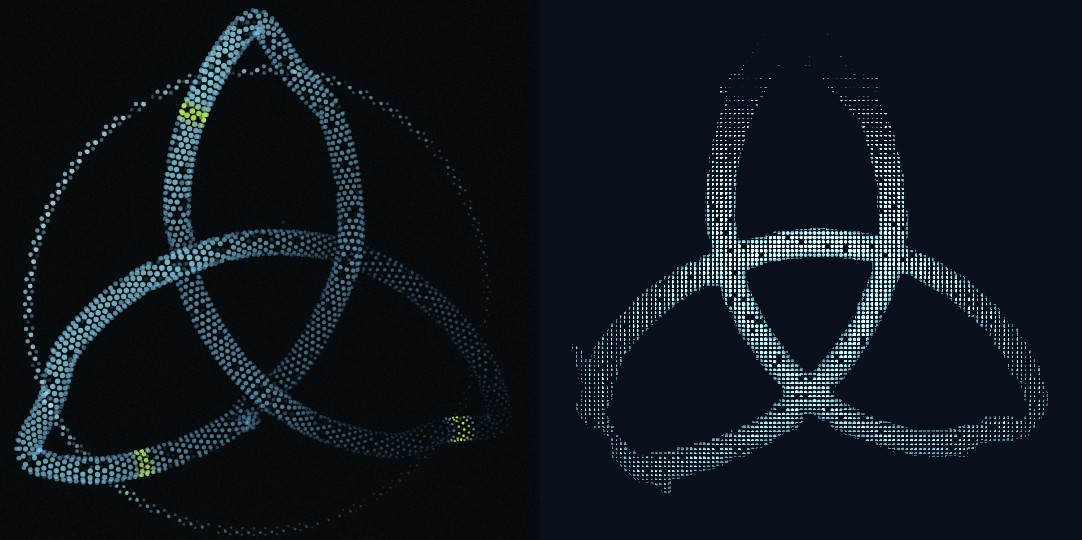
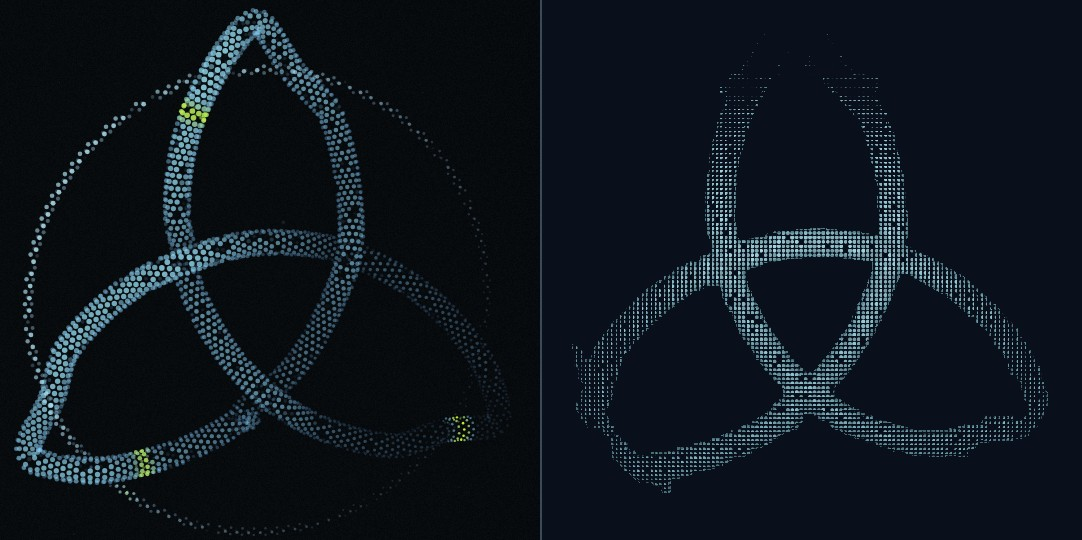
W1 KNOT repair r2: dim the dot field to s2, R2 side-by-side vs s2-knot-frame
- Dot brightness is now two shader uniforms, brightFloor / brightTop, defaulted
  to C2's 0.55 / 1.0 so the default Swarm frame is byte-identical (720x720 still
  sha256 0004e8cf... before and after). Knot passes 0.72 / 0.86 at gain 1.0:
  rest bright-pixel V 0.831 -> 0.632 against s2's 0.609.
- dotRadius 0.0086 -> 0.0092 unit (1.99 -> 2.13 px, 0.48 x the 4.41 px pitch)
  carries the 0.35-luminance core the dimmer dots lose to the AA ramp; without
  it blur6 falls to 0.5265, with it the gate holds at 0.7304 / 0.5338.
- docs/knot-stills/knot-vs-s2-frame.jpg: the R2 side-by-side against
  hud-candidates/comp-r1/s2/s2-knot-frame.jpg, both panels 720x720 with the
  bright knot 389 px wide (54.0% of the frame). knot-vs-s2.jpg stays the
  like-for-like 540 crop.
- docs/knot-iou.md: palette label reports both B >= G > R (100.0%) and the
  170-230 degree hue share (100.0%), lime 0.0%; the trace bake is documented at
  sha256 c7f17c93... (the scatter channel is in B), not the pre-scatter
  67df623f...; assemble table, coverage and stills resynced.

diff --git a/nexuslink.hud/v5/kit/Swarm.qml b/nexuslink.hud/v5/kit/Swarm.qml
@@ -33,6 +33,14 @@ import QtQuick
 //               channel, so the knot assembles from scattered points. At 1 the
 //               branch is skipped and the rest frame is untouched.
 //   gain        dot brightness multiplier, default C2's 1.28.
+//   brightFloor dot brightness at depth 0, default 0.55 (C2's floor): the dim
+//               end of the depth shading, in units of `gain`.
+//   brightTop   dot brightness at depth 1, default 1.0. Lowering the pair dims
+//               the whole dot field without touching its geometry, so the dot
+//               radius, pitch and stipple (and therefore the silhouette) stay.
+//   dotRadius   dot radius in units, default 0.0086 (C2's disc). Only the
+//               thresholded footprint of the field depends on it; the lattice
+//               pitch and stipple, and so the dot count, are unchanged.
 //   breathSkew  where in the cycle the ambient motion turns around: 0.5 is the
 //               symmetric sine C2 shipped, 0.4 is 40% out / 60% back.
 Item {
@@ -48,6 +56,9 @@ Item {
     property url sdfSource: "assets/swarm-knot-sdf.png"
     property real assemble: 1.0
     property real gain: 1.28
+    property real brightFloor: 0.55
+    property real brightTop: 1.0
+    property real dotRadius: 0.0086
     property real breathSkew: 0.5
 
     // 33 ms is 30.3 Hz: inside the 24 to 30 Hz band the build plan asks for.
@@ -124,7 +135,7 @@ Item {
         // reads as discrete points with dark gaps (cell fill 0.37 against s2's
         // 0.36) instead of the touching square tiles a 0.0115 radius produced
         // at the old 0.01617 pitch (disc 1.42 x pitch).
-        property real u_dotR: 0.0086
+        property real u_dotR: root.dotRadius
         property real u_pitch: 0.01907400
         property real u_rTube: 0.05640288
         property real u_rRing: 0.01277046
@@ -140,5 +151,7 @@ Item {
         property real u_activity: root.activity
         property real u_stipple: 0.94
         property real u_assemble: root.assemble
+        property real u_brightFloor: root.brightFloor
+        property real u_brightTop: root.brightTop
     }
 }

diff --git a/nexuslink.hud/v5/kit/Knot.qml b/nexuslink.hud/v5/kit/Knot.qml
@@ -76,10 +76,19 @@ Item {
         animate: root.animate
         speed: root.speed
         breathSkew: 0.4
-        // 1.45, not C2's 1.28: the ice accent carries less luminance than the
-        // acid one, and this holds the band coverage at the acid build's 0.0623
-        // (measured: 0.0619 at 1.28, 0.0624 at 1.45). See docs/knot-iou.md.
-        gain: 1.45
+        // Brightness: C2's dot colour at `gain` 1.45 clipped most of the near
+        // side to white (rest bright-pixel V 0.831 against s2's 0.609). The
+        // field now runs between brightFloor 0.72 and brightTop 0.86 at gain
+        // 1.0, which is the s2 range: measured rest bright-pixel mean RGB
+        // (108,150,161), V 0.632, against s2's (93,137,151) and V 0.609.
+        // dotRadius carries the 0.35-luminance core that the dimmer dots lose
+        // to the shader's anti-aliasing ramp: 0.0092 unit = 2.13 px against a
+        // 4.41 px lattice pitch, so the disc still sits inside its cell. See
+        // docs/knot-iou.md.
+        gain: 1.0
+        brightFloor: 0.72
+        brightTop: 0.86
+        dotRadius: 0.0092
         sdfSource: "assets/swarm-knot-sdf-s2.png"
         assemble: root.assembling ? root.assembleProgress : 1.0
     }

diff --git a/nexuslink.hud/v5/docs/knot-iou.md b/nexuslink.hud/v5/docs/knot-iou.md
@@ -1,12 +1,18 @@
 # Knot silhouette against s2 (W1)
 
-Status 2026-10-23, repair round 1: **`Knot.qml` ships with the trace fitted to s2,
-and the gate is the executive's ruling R2: `band_iou >= 0.72` and
-`silhouette_iou_blur6 >= 0.53`, both on the 540 s2 knot crop.** The written 0.90
-is out of reach for a dot-field render of this reference: no ring-free render can
-score above 0.8656 here, and the dot fill costs the rest (below), so chasing 0.90
-would mean thickening dots into tiles, which the visual law forbids. The
-deviation is recorded here per R2.
+Status 2026-10-23, repair round 2 (executive round-3 ruling): **`Knot.qml` ships
+with the trace fitted to s2, and the gate is the executive's ruling R2:
+`band_iou >= 0.72` and `silhouette_iou_blur6 >= 0.53`, both on the 540 s2 knot
+crop.** The written 0.90 is out of reach for a dot-field render of this
+reference: no ring-free render can score above 0.8656 here, and the dot fill
+costs the rest (below), so chasing 0.90 would mean thickening dots into tiles,
+which the visual law forbids. The deviation is recorded here per R2.
+
+Round 2 adds one measured change to the render: the rest dot field is dimmer.
+It read V 0.831 against s2's 0.609 with C2's dot colour at `gain` 1.45, which
+clipped most of the near side to white; it now reads V 0.632 with the brightness
+run between two shader uniforms (Palette, below). The trace, the bake, the
+scatter, the dot pitch and the stipple are unchanged.
 
 Every number below is reproduced by one script, `tools/knot-iou.py`, with the
 commands at the end.
@@ -15,13 +21,13 @@ commands at the end.
 
 | what | value |
 |---|---|
-| gate: `band_iou` at rest | **0.7218** (bar 0.72) |
-| gate: `silhouette_iou_blur6` at rest | **0.5346** (bar 0.53) |
+| gate: `band_iou` at rest | **0.7304** (bar 0.72) |
+| gate: `silhouette_iou_blur6` at rest | **0.5338** (bar 0.53) |
 | shipped asset's own level set vs the s2 crop band | 0.8149 |
 | the most any ring-free render can score on this crop | 0.8656 |
 | render at rest vs its own trace | 0.8276 |
-| dot coverage at rest | 0.0623 against the reference's 0.1153 |
-| bright-pixel mean RGB at rest (luminance > 0.35) | (155,203,211), 96% azure/ice, 0% lime |
+| dot coverage at rest | 0.0673 against the reference's 0.1153 |
+| bright-pixel mean at rest (luminance > 0.35, 14,473 px) | RGB (109,151,161), V **0.632**; B >= G > R 100.0%; hue 170-230 deg 100.0%; lime 0.0% |
 | rest vs `assembling: true, assembleProgress 1.0` | 0 of 291,600 crop px differ |
 
 ## Reference and crop
@@ -124,38 +130,63 @@ draw them, and
 is the highest `band_iou` any ring-free Knot can reach against this crop, even if
 its still reproduced the traced band exactly, pixel for pixel.
 
-The render lands at 0.7218, so the rest of the gap is the renderer, not the
+The render lands at 0.7304, so the rest of the gap is the renderer, not the
 geometry (render vs its own trace: 0.8276). Two measured causes, both bounded by
 the visual law:
 
 1. **No glow means sparse dots.** s2's dots carry a soft halo, so its band reads
-   58% covered at the meter's threshold. Swarm draws hard round discs at a 0.45
-   pitch ratio (C2's repair: discrete points with dark gaps). At 0.45 the discs
-   cover 33% of the band at 0.10, so the closed band comes out about 1.2 px
-   narrower per side than the geometry.
+   58% covered at the meter's threshold. Swarm draws hard round discs at a 0.48
+   pitch ratio (C2's repair: discrete points with dark gaps). At that ratio the
+   discs cover a third of the band at 0.10, so the closed band comes out about
+   1.2 px narrower per side than the geometry.
 2. **The lobe tips.** The band is 40 px wide at the top lobe's apex, but the
    tube's height above the plane goes to zero as the band narrows, so the dots at
    the tips are the dimmest and the first to fall under the threshold.
 
 Ruling R2 therefore sets the gate at **0.72 band and 0.53 blur6**, which this
-build meets at 0.7218 / 0.5346. Do not chase 0.90 by thickening dots into tiles.
+build meets at 0.7304 / 0.5338. Do not chase 0.90 by thickening dots into tiles.
 
-## Palette (R3)
+## Palette (R3) and dot brightness (E-4)
 
 s2's knot is azure to ice; `Tokens.acid` is a state colour, not the rest colour.
-`Knot.accent` now defaults to **`Tokens.ice` (#8fd8e8)**, and the shader's depth
-mix darkens the far dots toward azure (0.72 x) and lifts the cores toward white,
+`Knot.accent` defaults to **`Tokens.ice` (#8fd8e8)**, and the shader's depth mix
+darkens the far dots toward azure (0.72 x) and lifts the cores toward white,
 which is the s2 range. `accent` stays a property, so the integrator can push acid
 for a focus or assemble cue.
 
-Measured on the rest crop (pixels above 0.35 luminance): mean RGB **(155,203,211)**,
-96% of them with B >= G > R, **0% lime**. The s2 crop's own mean is (93,137,152)
-and the pre-repair build measured (178,202,59) with 88% lime.
+Bright pixels at rest (luminance > 0.35, 14,473 px), mean RGB **(109,151,161)**,
+**V 0.632**, **B >= G > R 100.0%**, **hue in the 170-230 degree window 100.0%**,
+**lime 0.0%**. The s2 crop reads (93,137,152), V 0.609, on its own 16,291 bright
+px: B >= G > R 94.8%, hue window 94.9%, and 3.1% lime, which is its ring. Both
+shares are reported because they are different meters: "azure/ice" is the
+B >= G > R share, and the hue window is the one that would catch a colour
+drifting out of s2's ramp. The pre-repair build measured 96.8% and 90.3%, so the
+old label "96% azure/ice" named neither cleanly. Lime is 0.0% under both.
 
-`Knot` drives Swarm's `gain` at **1.45** instead of C2's 1.28: the ice accent
-carries less luminance than acid, and 1.45 holds the band coverage at the acid
-build's 0.0623 (measured 0.0619 at 1.28, 0.0624 at 1.45). Swarm's default gain is
-untouched.
+Brightness (E-4): C2's dot colour at `gain` 1.45 clipped most of the near side to
+white, so the rest frame read **V 0.831** against s2's 0.609. The dot field now
+runs between two shader uniforms, **`brightFloor` 0.72 and `brightTop` 0.86, at
+`gain` 1.0**, i.e. the depth shading's two ends, both defaulted in `Swarm.qml` to
+C2's 0.55 / 1.0 so the shipped Swarm frame stays byte-identical. `dotRadius` is
+raised 0.0086 -> 0.0092 unit (1.99 -> 2.13 px, 0.48 x the 4.41 px pitch, still
+inside its cell) to carry the 0.35-luminance core that the dimmer dots lose to
+the shader's anti-aliasing ramp; `silhouette_iou_blur6` thresholds that core, so
+without it the gate drops to 0.5265.
+
+The measured ladder (rest crop, the same meters as the gate):
+
+    gain floor top  dotR    band_iou  blur6   bright V
+    1.45 0.55  1.00 0.0086  0.7218    0.5346  0.831   round 2
+    1.00 0.55  1.00 0.0086  0.7200    0.5295  0.678
+    1.00 0.70  0.80 0.0086  0.7210    0.5265  0.601
+    1.00 0.70  0.80 0.0092  0.7301    0.5314  0.610
+    1.00 0.72  0.86 0.0092  0.7304    0.5338  0.632   SHIPPED
+
+The price of the dimmer field is the dot footprint: coverage at 0.10 rises from
+0.0623 to **0.0673 (+8%)**, because the compensating radius widens the disc that
+the meter sees, and `band_iou` follows it up (the closed band is closer to s2's
+now). Dot pitch, stipple, dot count, scatter, trace and geometry are unchanged.
+Swarm's own defaults are untouched.
 
 ## Breath (R5, was F8)
 
@@ -177,7 +208,7 @@ traced band at a 5.5 px pitch and moves each one by a hashed offset of up to
 
 At 0 the marched surface is the scattered cloud, at 1 it is the traced tube, and
 the branch is skipped entirely at 1 so the rest frame is untouched. `R_SCATTER`
-is 0.010 unit = 2.3 px, the size of a settled dot (2.0 px).
+is 0.010 unit = 2.3 px, the size of a settled dot (2.1 px).
 
 Why a blend and not a per-dot displacement: a fragment of a raymarched surface
 only exists where the ray hits the surface, so a dot displaced further than its
@@ -191,25 +222,26 @@ Measured on the 540 crop (lit px at the 0.10 threshold, bbox, gate numbers):
 
 | state | lit px | bbox | `band_iou` | `blur6` |
 |---|---|---|---|---|
-| progress 0.0 | 14,644 | x 9..526, y 30..505 | 0.4225 | 0.4337 |
-| progress 0.3 | 20,602 | x 26..505, y 21..492 | 0.6886 | 0.5629 |
-| progress 0.6 | 21,221 | x 30..505, y 34..492 | 0.7374 | 0.5564 |
-| progress 1.0 | 18,181 | x 30..505, y 34..492 | 0.7218 | 0.5346 |
-| rest (`assembling: false`) | 18,181 | x 30..505, y 34..492 | 0.7218 | 0.5346 |
+| progress 0.0 | 15,855 | x 9..526, y 30..505 | 0.4242 | 0.4343 |
+| progress 0.3 | 22,271 | x 26..505, y 21..492 | 0.6968 | 0.5631 |
+| progress 0.6 | 22,882 | x 30..505, y 30..492 | 0.7423 | 0.5555 |
+| progress 1.0 | 19,637 | x 30..505, y 34..492 | 0.7304 | 0.5338 |
+| rest (`assembling: false`) | 19,637 | x 30..505, y 34..492 | 0.7304 | 0.5338 |
 
 At 0 the cloud is 28 px wider than the settled mark on each side and its `band_iou`
 is 0.42: the shape is not there yet. The intermediate states carry more lit px
 than rest because blending the two fields swells the surface before it settles;
-the count returns to 18,181 at 1.0. Rest and progress 1.0 are byte-identical
+the count returns to 19,637 at 1.0. Rest and progress 1.0 are byte-identical
 (0 of 291,600 crop px differ).
 
 ## Default Swarm frame (R1, was F2)
 
-The three properties W1 adds to `Swarm.qml` (`sdfSource`, `assemble`, `gain`) and
-`breathSkew` all default to the shipped values, the shader's assemble branch is
-skipped at `u_assemble = 1`, and the default asset is untouched. Proof, not
-assertion: `static/swarm-still.qml` rendered at 720x720 on `d0e9268` and on this
-head differs in **0 of 518,400 px** (max delta 0).
+The properties W1 adds to `Swarm.qml` (`sdfSource`, `assemble`, `gain`,
+`brightFloor`, `brightTop`, `dotRadius`) and `breathSkew` all default to the
+shipped values, the shader's assemble branch is skipped at `u_assemble = 1`, and
+the default asset is untouched. Proof, not assertion: `static/swarm-still.qml`
+rendered at 720x720 on `d0e9268` and on this head differs in **0 of 518,400 px**
+(max delta 0), and the two PNGs are byte-identical (sha256 `0004e8cf…`).
 
 ## Sweeps (run-2 build: acid accent, gain 1.28, each with `pxPerUnit` synced)
 
@@ -223,18 +255,19 @@ head differs in **0 of 518,400 px** (max delta 0).
     opening 7, offset 1     SHIPPED 0.7218   0.7539  0.5327
 
 These rows are the parameter sweep as measured before the palette change; the
-repair build's ice accent moves the shipped row to 0.7218 / 0.5346 (same band,
-better blur6). The 1 px silhouette offset is the measured compensation for the
-dot inset and is the reason the shipped row beats the other ring-free rows. Larger
-offsets lose, because dilating the silhouette also dilates the enclosed holes and
-the reference has none there. Gain 2.2 would add +0.0055 but brightens every dot
-toward solid; C2's 1.28 is kept as the Swarm default and `Knot` uses 1.45 for the
-ice accent. Opening 5 with offset 1 scores 0.004 higher than the shipped row but
-leaves the ring strip in the still, so it is not shipped.
+round-2 ice build moved the shipped row to 0.7218 / 0.5346, and the round-3
+brightness to 0.7304 / 0.5338 (see Palette). The 1 px silhouette offset is the
+measured compensation for the dot inset and is the reason the shipped row beats
+the other ring-free rows. Larger offsets lose, because dilating the silhouette
+also dilates the enclosed holes and the reference has none there. Gain 2.2 would
+add +0.0055 but brightens every dot toward solid; C2's 1.28 is kept as the Swarm
+default, and `Knot` now dims through `brightFloor` / `brightTop` rather than
+gain. Opening 5 with offset 1 scores 0.004 higher than the shipped row but leaves
+the ring strip in the still, so it is not shipped.
 
 ## Stills
 
-`docs/knot-stills/`, 2560x1440 deck frames and 540 crops, JPEG, 49-75 KB each:
+`docs/knot-stills/`, 2560x1440 deck frames and 540 crops, JPEG, 44-71 KB each:
 
 | state | deck | crop |
 |---|---|---|
@@ -244,14 +277,30 @@ leaves the ring strip in the still, so it is not shipped.
 | progress 0.6 | `docs/knot-stills/knot-a60-deck.jpg` | `docs/knot-stills/knot-a60-540.jpg` |
 | progress 1.0 | `docs/knot-stills/knot-a100-deck.jpg` | `docs/knot-stills/knot-a100-540.jpg` |
 
-Side by side for the R2 check (s2's crop left, the render's crop right, 1:1):
-`docs/knot-stills/knot-vs-s2.jpg`.
+Side by side, like for like (s2's 540 crop left, the render's 540 crop right, the
+same crop box, 1:1): `docs/knot-stills/knot-vs-s2.jpg`.
+
+Side by side against the reference the R2 ruling names,
+`hud-candidates/comp-r1/s2/s2-knot-frame.jpg`: `docs/knot-stills/knot-vs-s2-frame.jpg`.
+Both panels are 720x720 and the bright knot (luminance > 0.35) is **389 px wide =
+54.0% of the frame in each**. The s2 panel is that file as it ships. The render
+panel is `knot-rest-deck.jpg` cropped to 874x874 around the knot's bright bbox
+centre and resampled to 720 (0.824x), so the knot lands at the same size in the
+same-sized panel; its own deck frame has the knot at 476 px in 2560x1440. The
+reference frame carries s2's dotted ring and sits on black, the Knot has no ring
+by spec and sits on the deck's `#0a0f1c`.
 
 ## Reproduce
 
 From the worktree root, Python 3 with PIL only — **no numpy**; the tool is stdlib
-plus PIL and reproduces the previous numpy build's numbers exactly (the same
-input bakes the identical texture):
+plus PIL and reproduces the previous numpy build's **fit numbers** exactly: the
+same input gives band 50,416 px, strand half width 13.04 px, 231.16 px per unit,
+a 770.5 px Swarm and the 0.8149 level-set IoU. The texture it bakes is not the
+pre-scatter one: `trace` also writes the scatter channel into B, so the documented
+bake is `kit/assets/swarm-knot-sdf-s2.png` at sha256
[1 lines of base64/hex data omitted]
+byte the committed asset. (The pre-scatter bake of `d7616bd` was `67df623f…`; its
+B channel is zero, so it cannot carry the assemble scatter.)
 
     # 1. bake the trace + scatter into the knot's own asset and print the fit
     /usr/bin/python3 tools/knot-iou.py trace \
@@ -283,9 +332,11 @@ default 2560x1440 deck frame; the 540 crop is taken at x=1010, y=280.
 - `nexuslink.hud/v5/kit/Knot.qml` (new, this card's)
 - `nexuslink.hud/v5/kit/assets/swarm-knot-sdf-s2.png` (new: R tube, B scatter;
   C2's `swarm-knot-sdf.png` is untouched)
-- `nexuslink.hud/v5/kit/Swarm.qml` — four added properties with shipped defaults:
-  `sdfSource`, `assemble`, `gain`, `breathSkew`
+- `nexuslink.hud/v5/kit/Swarm.qml` — seven added properties, all defaulted to the
+  shipped values: `sdfSource`, `assemble`, `gain`, `brightFloor`, `brightTop`,
+  `dotRadius`, `breathSkew`
 - `nexuslink.hud/v5/kit/shaders/swarm.frag` + `swarm.frag.qsb` (the assemble
-  blend, skipped at `u_assemble = 1`)
-- `nexuslink.hud/v5/docs/knot-stills/*` (evidence)
+  blend, skipped at `u_assemble = 1`; the dot brightness floor and top as
+  uniforms, defaulted 0.55 / 1.0)
+- `nexuslink.hud/v5/docs/knot-stills/*` (evidence, including both side-by-sides)
 - `tools/knot-iou.py`, this file
